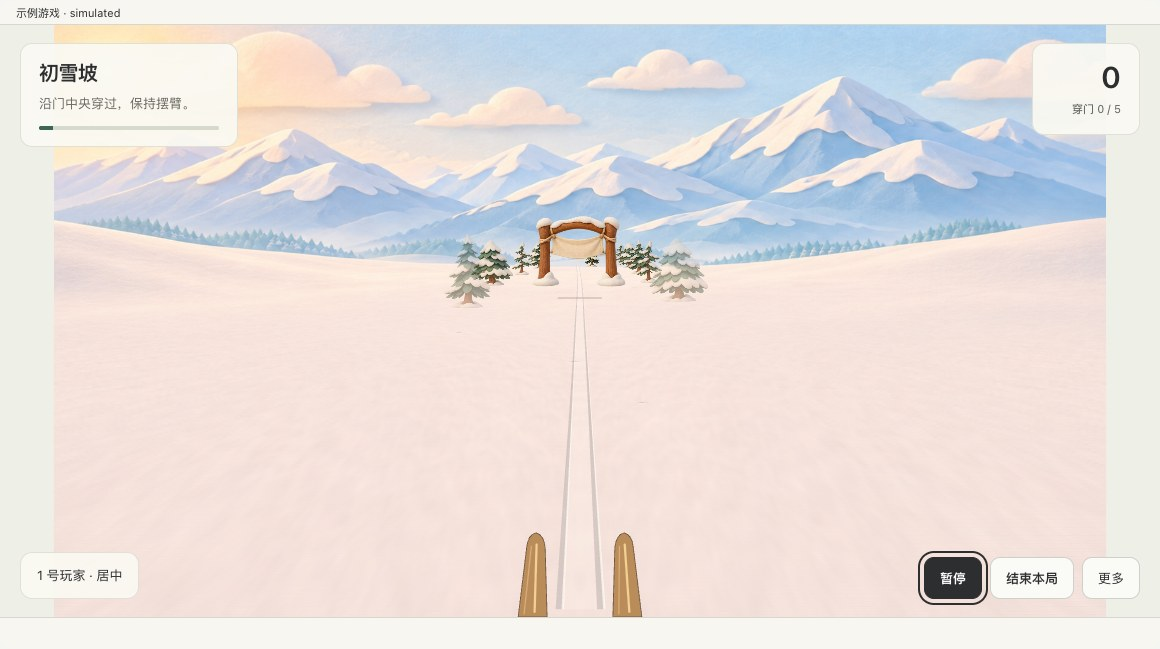
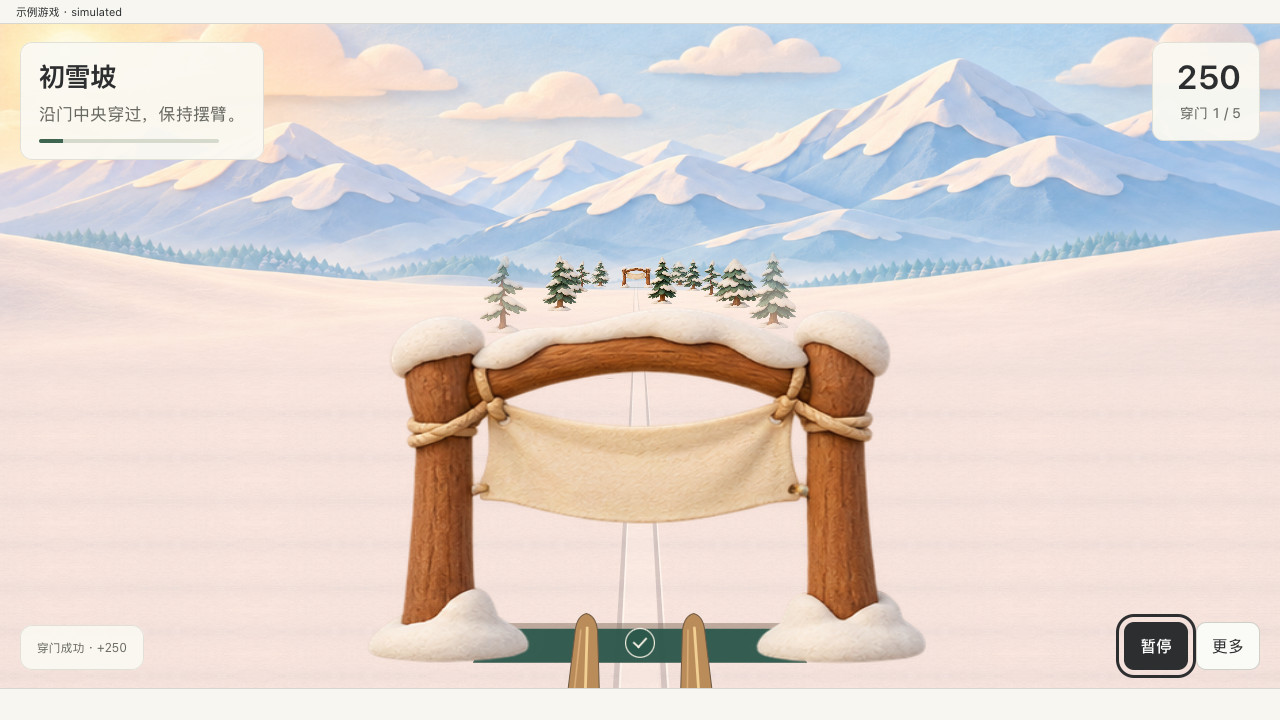
文档：更新滑雪穿门反馈与示例截图

diff --git a/docs/guides/games.md b/docs/guides/games.md
@@ -30,9 +30,9 @@
 
 三个动作完成后选择「开始滑行」。熟悉操作时，可以在选道后选择「开始本局」，也可以在试滑中选择「直接开滑」。正式局从雪道起点计时和计分。
 
-滑行时摆动双臂前进，左右移动，沿着成对的滑痕穿过木门。停下摆臂后会逐渐减速。
+滑行时摆动双臂前进，左右移动，沿着成对的滑痕穿过木门。深色雪面线标出当前木门的通行范围。穿过时，线上的勾号确认成功，分数同时更新。停下摆臂后会逐渐减速。
 
-![林间滑雪的赛道、滑痕与木门，示例游戏](../assets/screenshots/friday-ski-course.jpg)
+![林间滑雪的木门、过门标记与本局比分，示例游戏](../assets/screenshots/friday-ski-course.jpg)
 
 点「暂停」可以停在当前位置，点「继续本局」接着滑。想简化滑行画面时，在显示游戏的电脑或手机上开启系统的「减少动态效果」。雪道、木门和需要避开的树仍会随滑行移动。
 

diff --git a/docs/troubleshooting/faq.md b/docs/troubleshooting/faq.md
@@ -192,7 +192,7 @@
 
 ## Q43. 可以减少滑雪画面的运动吗？
 
-可以。先在游戏里点「暂停」，然后在显示游戏的电脑或手机上开启系统的「减少动态效果」。Friday 会收起雪地细纹和两侧的装饰树，保留滑痕、木门和避障参照。详见[林间滑雪](../guides/games.md#林间滑雪)。
+可以。先在游戏里点「暂停」，然后在显示游戏的电脑或手机上开启系统的「减少动态效果」。Friday 会收起雪地细纹和两侧的装饰树，保留滑痕、木门、穿门标记和避障参照。详见[林间滑雪](../guides/games.md#林间滑雪)。
 
 ## Q44. 侧抬腿或头顶合掌为什么没有计次？
 
